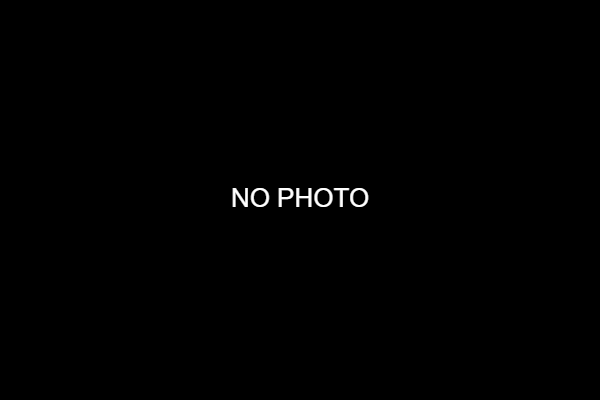
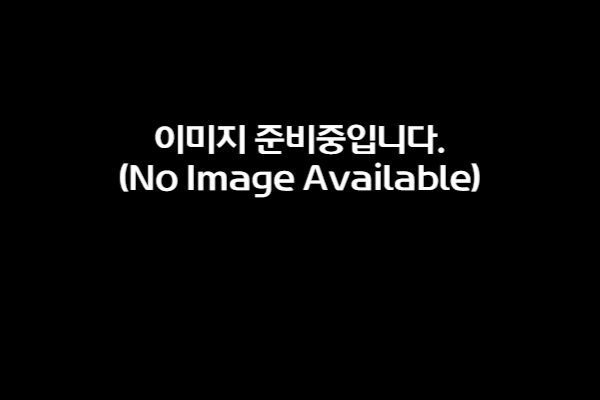
:sparkles: Use Media-query

Changed region(s): [[0.18, 0.3, 0.81, 0.54]]

diff --git a/src/Components/Slider.tsx b/src/Components/Slider.tsx
@@ -211,7 +211,7 @@ const BigPoster = styled.div<{ bg: string }>`
   right: 5%;
   width: 120px;
   height: 180px;
-  border-radius: 5px;
+  border-radius: 10px;
   background-image: url(${(props) => props.bg});
   background-size: contain; // Preserve aspect-ratio
   background-repeat: no-repeat;
@@ -232,16 +232,16 @@ const BigCoverInfo = styled.div`
 `;
 
 const BigTitle = styled.h1`
-  margin-bottom: 0.5vw;
-  font-size: 2vw; ;
+  margin-bottom: 10px;
+  font-size: 32px; ;
 `;
 
 const BigCoverSubInfo = styled.div`
   // Date, Rating Information
-  margin-bottom: 1vw;
-  font-size: 0.8vw;
+  margin-bottom: 20px;
+  font-size: 16px;
   span:first-child {
-    margin-right: 0.5vw;
+    margin-right: 10px;
     color: ${(props) => props.theme.green};
   }
 `;
@@ -257,7 +257,7 @@ const BigOverview = styled.p`
   width: 90%;
   word-wrap: break-word;
   word-break: keep-all;
-  font-size: 0.8vw;
+  font-size: 14px;
   font-weight: 300;
 `;
 

diff --git a/public/index.html b/public/index.html
@@ -5,9 +5,30 @@
     <link rel="icon" href="%PUBLIC_URL%/favicon.ico" />
     <meta name="viewport" content="width=device-width, initial-scale=1" />
     <title>NETFLIX</title>
+    <style>
+      #media-query {
+        display: flex;
+        justify-content: center;
+        align-items: center;
+        position: absolute;
+        top: 0;
+        z-index: 9999;
+        width: 100%;
+        height: 100%;
+        background-color: black;
+        font-size: 5vw;
+        color: white;
+      }
+      @media screen and (min-width: 768px) {
+        #media-query {
+          display: none;
+        }
+      }
+    </style>
   </head>
   <body>
     <noscript>You need to enable JavaScript to run this app.</noscript>
+    <div id="media-query"><h1>Your screen is too small.</h1></div>
     <div id="root"></div>
   </body>
 </html>

diff --git a/src/Components/SearchSlider.tsx b/src/Components/SearchSlider.tsx
@@ -232,16 +232,16 @@ const BigCoverInfo = styled.div`
 `;
 
 const BigTitle = styled.h1`
-  margin-bottom: 0.5vw;
-  font-size: 2vw; ;
+  margin-bottom: 10px;
+  font-size: 32px; ;
 `;
 
 const BigCoverSubInfo = styled.div`
   // Date, Rating Information
-  margin-bottom: 1vw;
-  font-size: 0.8vw;
+  margin-bottom: 20px;
+  font-size: 16px;
   span:first-child {
-    margin-right: 0.5vw;
+    margin-right: 10px;
     color: ${(props) => props.theme.green};
   }
 `;
@@ -257,7 +257,7 @@ const BigOverview = styled.p`
   width: 90%;
   word-wrap: break-word;
   word-break: keep-all;
-  font-size: 0.8vw;
+  font-size: 14px;
   font-weight: 300;
 `;
 

diff --git a/src/utils.ts b/src/utils.ts
@@ -1,4 +1,4 @@
 export function makeImgPath(id: string, format?: string) {
   if (id) return `https://image.tmdb.org/t/p/${format ? format : "original"}/${id}`;
-  else return process.env.PUBLIC_URL + "/assets/no-photo.png";
+  else return process.env.PUBLIC_URL + "/assets/no-image.png";
 }
